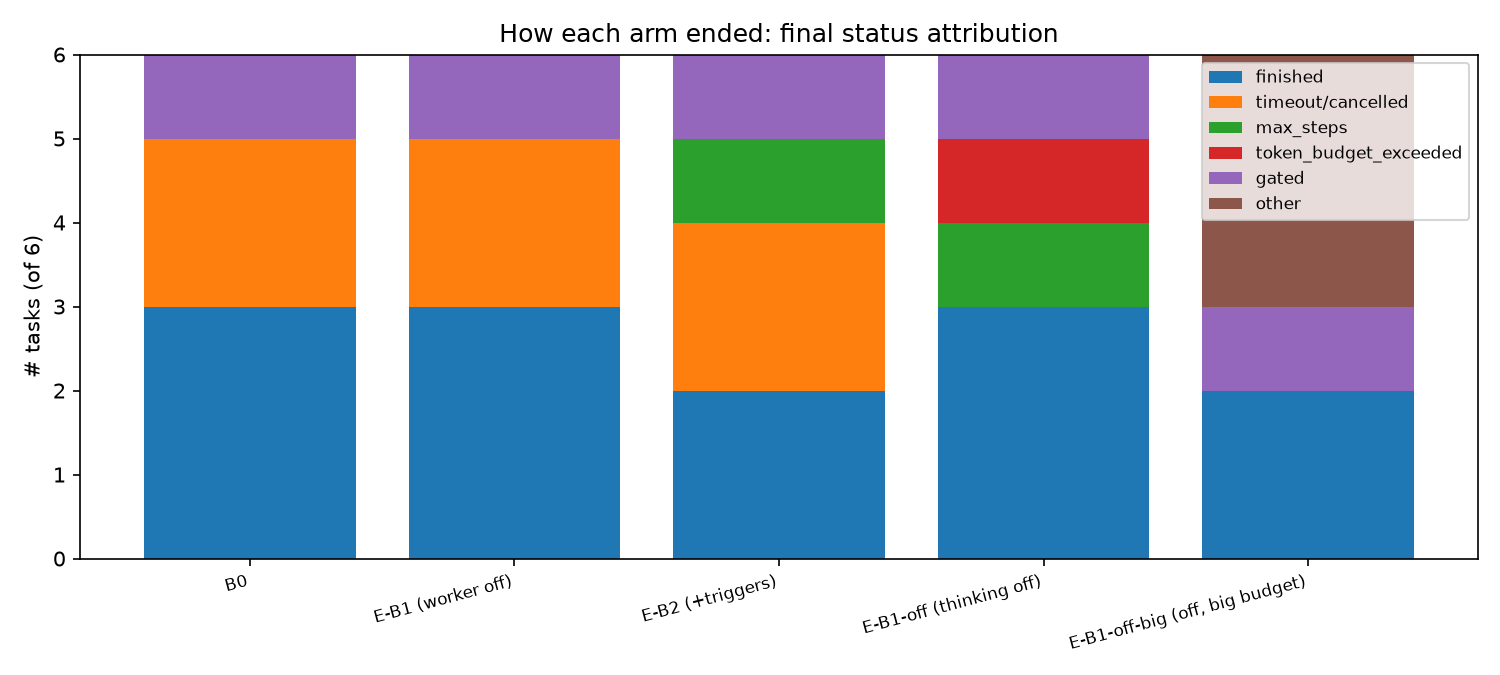
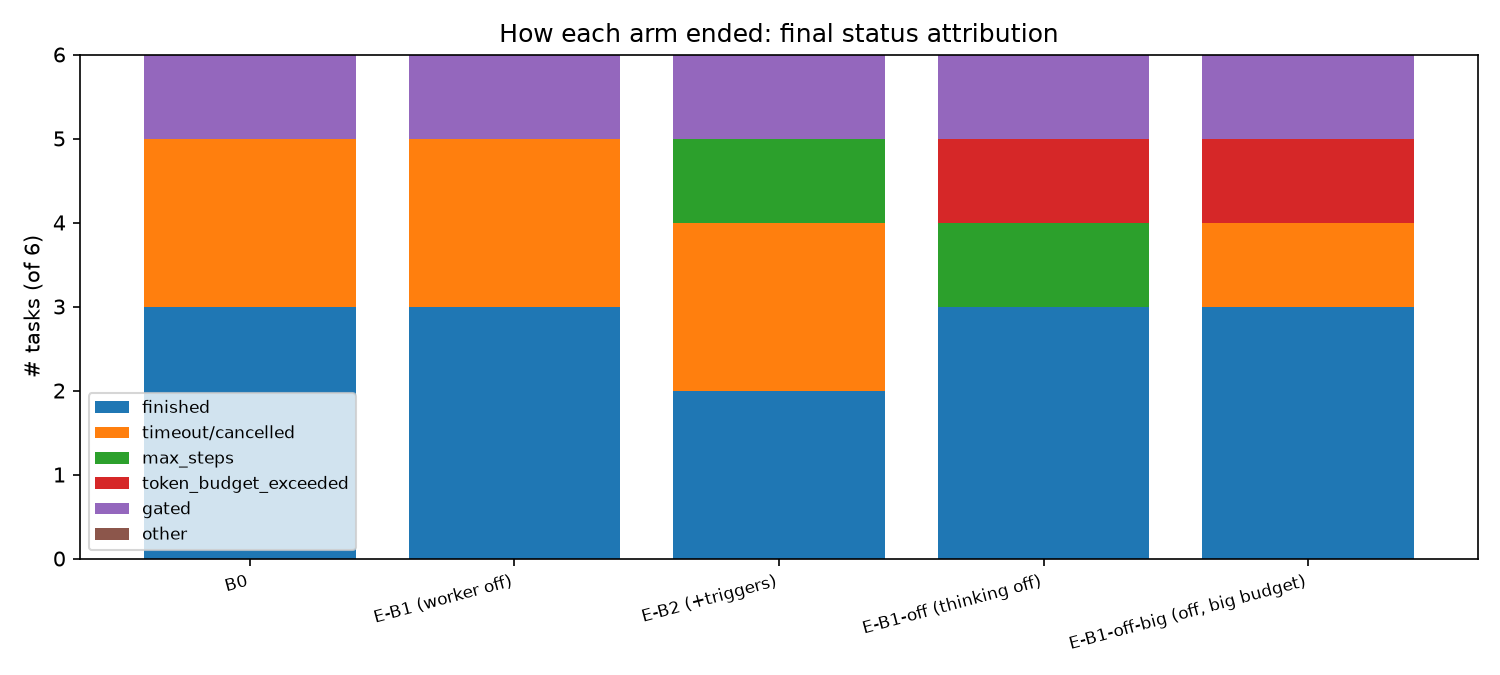
report: off-big v3 internal-endpoint results + M1 pilot v4 failure taxonomy

Changed region(s): [[0.7973, 0.0622, 0.9813, 0.5911], [0.0613, 0.56, 0.2453, 0.84]]

diff --git a/scripts/m1_pilot.py b/scripts/m1_pilot.py
@@ -161,13 +161,23 @@ def main() -> None:
                 if (sid, mode) in done:
                     print(f"[skip] {sid} {mode}")
                     continue
-                extra = ({"enable_thinking": False} if mode == "off"
-                         else None)
+                # Internal vLLM: thinking off ONLY works via nested
+                # chat_template_kwargs (top-level enable_thinking is silently
+                # ignored — measured 2026-10-29). Thinking on gets
+                # reasoning_effort=medium: default xhigh fills 32k reasoning
+                # tokens and truncates the answer to empty.
+                extra = ({"chat_template_kwargs": {"enable_thinking": False}}
+                         if mode == "off" else {"reasoning_effort": "medium"})
+                # thinking mode shares one completion budget between
+                # reasoning and answer on this vLLM build; 8192 truncates
+                # long reasoning and yields empty content. Off mode still
+                # needs room: a 52-period MILP script exceeds 8192 tokens.
+                max_tokens = 16384 if mode == "off" else 32768
                 t0 = time.time()
                 try:
                     resp = llm_mod.chat(
                         [{"role": "user", "content": prompt}],
-                        max_tokens=8192, temperature=0.6, extra=extra,
+                        max_tokens=max_tokens, temperature=0.6, extra=extra,
                         config=cfg)
                     text = resp.get("content") or ""
                     llm_err = None
@@ -177,6 +187,13 @@ def main() -> None:
                        "llm_latency_s": round(time.time() - t0, 1),
                        "reference_objective": row["reference_objective"],
                        "reference_status": row["reference_status"]}
+                if not llm_err:
+                    u = resp.get("usage") or {}
+                    rec["finish_reason"] = resp.get("finish_reason")
+                    rec["reasoning_tokens"] = (
+                        (u.get("completion_tokens_details") or {})
+                        .get("reasoning_tokens"))
+                    rec["completion_tokens"] = u.get("completion_tokens")
                 if llm_err:
                     rec.update(exec_status="llm_error", error=llm_err)
                 else:
